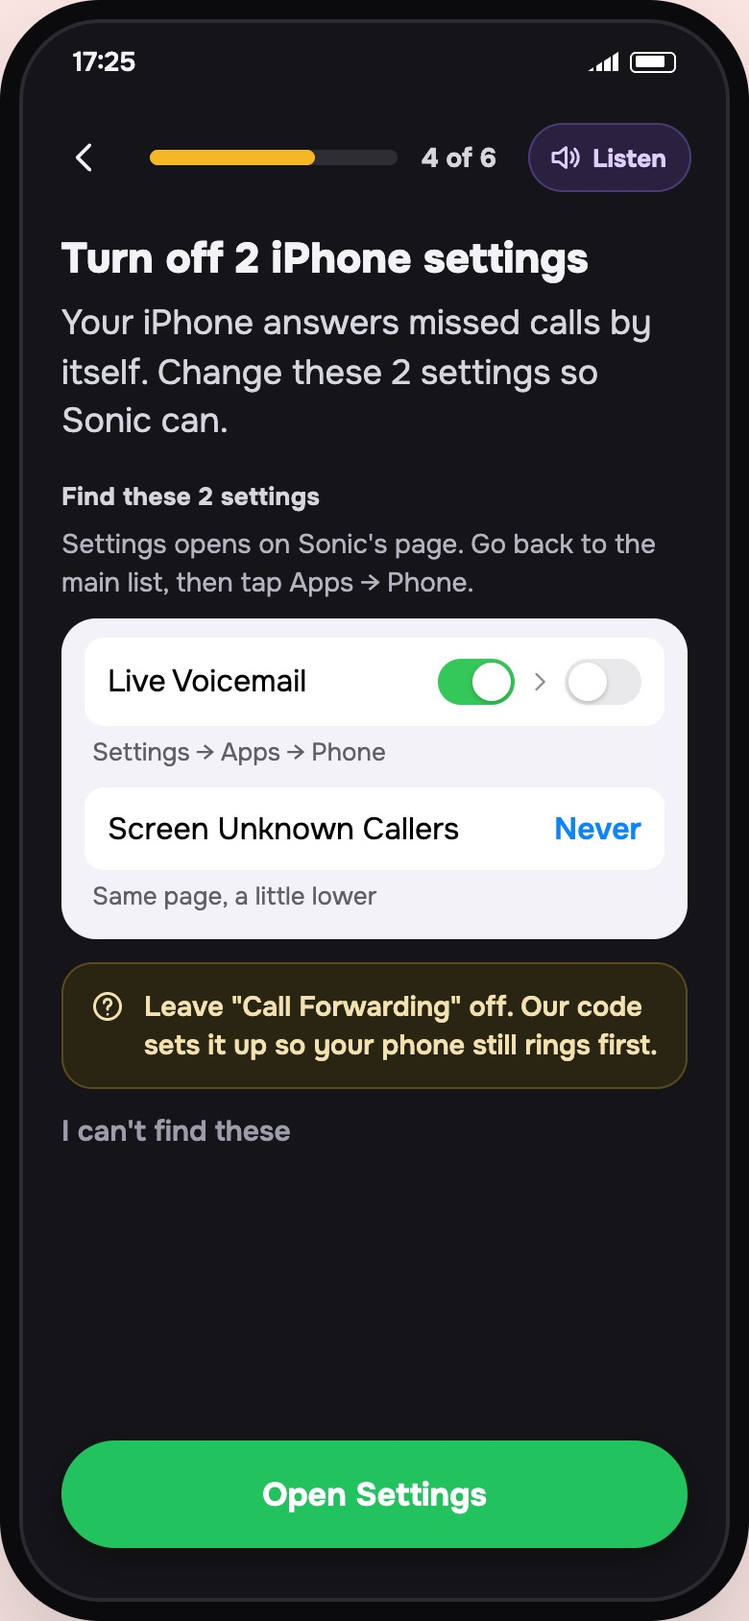
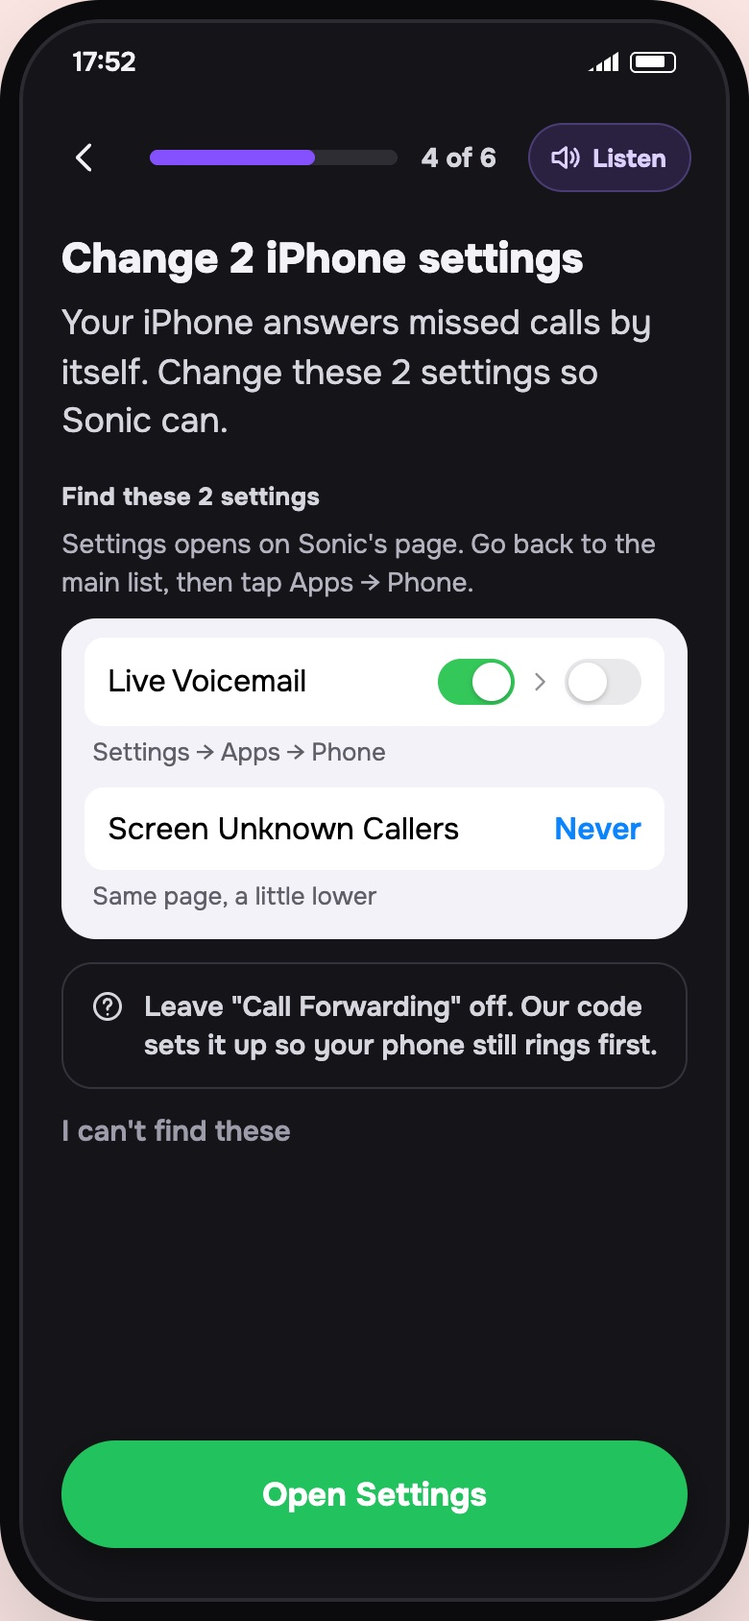
Part A v4: one object per screen, colour discipline, test-call hero
- Welcome merges What Sonic does: three one-line rows, 'rings first' line, video in a sheet
- Green only for the main button; purple for Sonic; neutral outlined callouts; no yellow
- Forwarding: code first and large, no animation, undo as one grey line
- Test call: big red button as the hero; slide-to-answer note on iPhone only
- Permissions: 'Allow all' chains the system dialogs; Android notifications required
- Choose: how 'only unknown numbers' treats saved contacts; first-family-call check
- Sonic is on: honest delivery status, first-week 'Was this ok?' example

diff --git a/site/onboarding/copy.js b/site/onboarding/copy.js
@@ -11,7 +11,7 @@ en: {
   w_title:'Missed a call?<br><span class="mark">Sonic picked it up.</span>',
   w_lede:'Your AI assistant for the calls you can\'t take.',
   w_play:'Watch how it works', w_len:'30 sec, with sound',
-  w_cta:'Get started', w_how:'Later',
+  w_cta:'Set up Sonic · about 3 min', w_how:'Later', w_rows:[['scooter','Delivery','Guides the rider to your gate with your instructions.'],['ban','Spam','Says no politely and hangs up. Shares nothing.'],['bell','Family','Takes the message. Urgent ones alert you right away.']], w_watch:'Watch how it works · 30 sec',
   w_trust:'Sonic always says it\'s your assistant. Never pretends to be you.',
   // what it does
   d_title:'Three kinds of calls, handled', d_rings:'Your phone rings first, every time. Sonic only answers calls you miss.', d_cta:'Set up Sonic · about 3 min',
@@ -31,28 +31,28 @@ en: {
   c_title:'Which calls should Sonic answer?',
   c_lede:'Your phone always rings first. Sonic only answers the calls you miss.',
   c2_h:'All calls I miss', c2_p:'Family, riders and strangers. Nobody is left unanswered.', c2_hear:'Family hear: "This is Sonic, Ananya\'s assistant."',
-  c1_h:'Only unknown numbers', c1_p:'Saved contacts just get a missed call, like today.',
+  c1_h:'Only unknown numbers', c1_p:'Strangers, spam and riders only.', c1_saved:'Saved contacts: Sonic hangs up quietly. They see a missed call, like today.',
   c_rec:'Recommended',
   c_f1:['Call','Rings on your phone','Missed','Sonic answers'],
-  c_change:'You can change this anytime.',
+  c_change:'After your first family call, Sonic will ask if you want to keep this.',
   // permissions
-  r_title:'Allow what Sonic needs',
+  r_title:'Let Sonic see your contacts', r_all:'Allow all', r_all_n:'Allow both',
   r_lede:'Your phone will show a box. Tap Allow.',
   r_contacts:'Contacts', r_contacts_w:'To greet family by name and spot strangers.', r_contacts_w2:'So Sonic knows your saved contacts and never answers them.',
-  r_notif:'Notifications', r_notif_w:'To guide you while you\'re in your phone\'s settings, and for urgent alerts.',
+  r_notif:'Notifications', r_notif_w:'To guide you in the Phone app, and for urgent alerts.',
   r_phone:'Phone', r_phone_w:'So Sonic knows which SIM gets your calls.',
   r_need:'Allow Contacts first', r_need_and:'Allow Contacts and Phone first', r_opt:'optional', r_settings:'Open Settings', r_settings_t:'Opens Settings → Apps → Sonic → Permissions',
   r_never:'Sonic never reads your SMS or OTPs. It never hears calls you pick up.',
   // voicemail
-  v_title:'Turn off 2 iPhone settings',
+  v_title:'Change 2 iPhone settings',
   v_lede:'Your iPhone answers missed calls by itself. Change these 2 settings so Sonic can.',
   v_s1:'Live Voicemail', v_s1p:'Settings → Apps → Phone',
   v_s2:'Screen Unknown Callers', v_s2p:'Same page, a little lower',
-  v_open:'Open Settings', v_back:'Done, both are off', v_again:'Show me again', v_cant:'I can\'t find these',
+  v_open:'Open Settings', v_back:'Done, both changed', v_again:'Show me again', v_cant:'I can\'t find these',
   v_cant_a:'No "Apps" in Settings? Your iPhone has iOS 17: open Settings → Phone instead. If one of the two settings isn\'t there, skip it. The test call at the end will check.', v_how:'Settings opens on Sonic\'s page. Go back to the main list, then tap Apps → Phone.', v_trap:'Leave "Call Forwarding" off. Our code sets it up so your phone still rings first.',
   // forwarding
   f_title:'Send missed calls to Sonic',
-  f_lede:'Dial this code once. That\'s all.', f_then_i:['Open Phone, tap Keypad.','Hold above the numbers, tap Paste.','Press call. See "activated"? Come back.'], f_then_a:['Press the green call button.','See "activated"? Come back here.'], f_type:'Or type it yourself',
+  f_lede:'Dial this code once. That\'s all.', f_then_i:['Open Phone, tap Keypad.','Touch and hold the empty box above the keys, tap Paste.','Press call. See "activated" or "successful"? Come back here.'], f_then_a:['Press the green call button.','See "activated" or "successful"? Come back here.'], f_tells:'This tells your network: if I don\'t pick up, send the call to Sonic.', f_undo_line:'Undo anytime: dial ##004#. If Sonic can\'t answer, the call just rings, like today.', f_type:'Or type it yourself',
   f_anim:['Someone calls','Your phone rings','You miss it','Sonic answers'],
   f_sim:'Use the SIM for', f_sim_ask:'If your phone asks which SIM, pick this one.', f_sim_change:'Not this number?',
   f_1:'Copy the code', f_1a:'Tap "Open dialer"', f_inside:'The purple part is your Sonic number.',
@@ -71,16 +71,16 @@ en: {
   x_cta:'Call me now', x_ring:'Calling...',
   x_dec:'Decline', x_acc:'Accept', x_test:'Sonic test call',
   x_pick:'You picked up. No problem. Try once more, and decline this time.',
-  x_ok_h:'It works', x_ok_p:'Sonic just answered your test call. This is what it said:', x_f1:'Your phone still rings first, every time.', x_f2:'Turn it off anytime: dial ##004#.',
+  x_ok_h:'It works', x_ok_p:'Sonic just answered your test call. This is what your callers will hear:', x_f3:'Sonic will send you a summary after every call it takes.', x_f1:'Your phone still rings first, every time.', x_f2:'Turn it off anytime: dial ##004#.',
   x_line:'Hello, this is Sonic, Ananya\'s assistant. Ananya can\'t take the call right now. May I know who\'s calling?',
   x_finish:'Finish', x_noring:'It didn\'t ring', x_noring_h:'Usually one of these', x_noring_l:['Check we called the right number. Tap Change on the test screen.','The code didn\'t register. Dial it again.','iPhone: Live Voicemail or Screen Unknown Callers is still on.'], x_redo:'Fix it',
   // live
-  l_title:'Sonic is on', l_lede:'Examples of what Sonic will send you after a call.', l_ex:'Example',
+  l_title:'Sonic is on', l_lede:'Examples of what Sonic will send you after a call.', l_deliv:'Deliveries: Sonic will guide riders once you add your home and office.', l_tt:'Amma called · 2 min', l_tb:'Sonic took a message. Was this ok?', l_keep:'Keep', l_switch:'Switch to unknown only', l_foot:'Pause Sonic anytime from Home. Turn it off anytime: dial ##004#.', l_ex:'Example',
   l_n1t:'Urgent · Amma', l_n1b:'Amma called. She says it\'s urgent. Call her back.',
   l_n2t:'Delivery · Swiggy', l_n2b:'Rider sent to Gate 2, flat B-1203. 8:47 pm.',
   l_n3t:'Spam ended', l_n3b:'Loan offer. Nothing shared.',
   l_next_h:'One more thing for deliveries', l_next_p:'Add your home and office, and who can collect. 1 minute.', l_mode_u:'Answers: only unknown numbers', l_mode_a:'Answers: all calls you miss', l_mode_c:'Change anytime',
-  l_next:'Add delivery details', l_pause:'Pause Sonic anytime from Home.',
+  l_next:'Add delivery details · 1 min', l_pause:'Pause Sonic anytime from Home.',
   // dialogs
   sys_screen_t:'Set Sonic as your default caller ID & spam app?', sys_screen_p:'Sonic will be able to see info about your calls.', set_default:'Set as default', cancel:'Cancel',
   sys_contacts_t:'Allow Sonic to access your contacts?', allow:'Allow', dont:'Don\'t allow',
@@ -91,7 +91,7 @@ en: {
   carrier_ok_t:'Call forwarding', carrier_ok_p:'Registration was successful. Service: Voice. Call forwarding when unreachable, busy or no reply: activated.',
   hint_settings:'You\'re in iPhone Settings. Change both, then tap "Sonic" at the top left.',
   hint_dialer:'You\'re in the Phone app. Paste the code and press call.',
-  la_title:'Sonic setup', la_pill:'Sonic · 3 steps', f_nonotif:'Notifications are off, so no helper will appear in the Phone app. Remember: press call, wait for "activated", come back.', la_ios_dial:['Touch and hold the top, tap Paste','Press the green call button','Wait for "activated", then come back'], la_and_dial:'Press the green call button. When you see "activated", tap here to come back.', la_back:'Back to Sonic',
+  la_title:'Sonic setup', la_pill:'Sonic · 3 steps', f_nonotif:'No helper will appear in the Phone app, so remember: press call, wait for "activated", come back.', la_ios_dial:['Touch and hold the top, tap Paste','Press the green call button','Wait for "activated", then come back'], la_and_dial:'Press the green call button. When you see "activated", tap here to come back.', la_back:'Back to Sonic',
   you_title:'What should Sonic call you?', you_lede:'Sonic says this to every caller:', you_name:'Your first name', you_num:'Your mobile number', you_num_ios:'iPhone doesn\'t let apps read your number, so please type it.', you_num_and:'From SIM 1', you_need:'Type your name first',
   toast_copied:'Code copied',
   step_of:'{a} of {b}', listen:'Listen', stop:'Stop',
@@ -108,10 +108,10 @@ window.NOTES = {
   welcome:{h:'Who I designed for',b:['Two people: a busy professional in Bengaluru, and that person\'s parent in a smaller town who uses a phone for WhatsApp and calls, and little else. If the parent can finish setup alone, everyone can.','So every screen follows five rules: one job and one green button per screen; plain words, no "permissions", "USSD" or "MMI"; show what they will see before they leave the app; a Listen button that reads the steps aloud on every hard step; and say how to undo before asking for anything.','The welcome line is the moment Sonic is for: a call you missed, already handled.'],w:'"Is this some app that will mess with my calls?"'},
   what:{h:'Show real calls, not features',b:['One tab per call type, each a two-line call. People understand an assistant faster from what it says than from a feature list.','The worries are tap-to-open, so the screen stays short for people who don\'t need them. Three worries only: missing calls, cost, and turning it off. The cost answer is my assumption about Indian unlimited plans; I would verify it with the telecom partner before launch.'],w:'"Will I still get my calls?" is answered here, before any setup.'},
   you:{h:'Ask only what Sonic says out loud',b:['Sonic introduces itself as "your name\'s assistant", so the name is the one thing it must ask. It shows the exact line callers will hear, right as you type.','Android reads the number from the SIM (Phone permission). iPhone cannot, so it asks; a real build would verify it with an OTP.','Nothing else is asked during setup. Home and office addresses come after Sonic is live.'],w:'"Why does it need my name?" Because callers hear it.'},
-  choose:{h:'Default: all calls I miss',b:['Family calls are one of Sonic\'s three jobs. If the default skipped saved contacts, most people would never see that job work, so I recommend "All calls I miss".','The first line answers the biggest fear: your phone always rings first.','Each option has an icon and one line, so someone who doesn\'t read every word can still choose.'],w:'"If Amma calls and I miss it, does a bot talk to her?" Only if you choose so, and it tells her it\'s your assistant.'},
+  choose:{h:'Default: all calls I miss',b:['Family calls are one of Sonic\'s three jobs. If the default skipped saved contacts, most people would never see that job work, so I recommend "All calls I miss".','The first line answers the biggest fear: your phone always rings first.','Each option has an icon and one line, so someone who doesn\'t read every word can still choose.','How "only unknown numbers" works with carrier forwarding: the missed call still reaches Sonic\'s number, Sonic sees it is a saved contact and hangs up quietly, so the caller gets a missed call, like today.','After the first family call, Sonic asks once whether to keep this mode, so the default is checked against real use.'],w:'"If Amma calls and I miss it, does a bot talk to her?" Only if you choose so, and it tells her it\'s your assistant.'},
   perms:{h:'Prepare them for the popup',b:['Non-tech users often deny system popups out of fear. So the first line says it plainly: "Your phone will show a box. Tap Allow."','One line of why for each, in their terms ("to greet family by name"), not ours.','Notifications are optional, but asked here on purpose: on Android they carry the setup guide while the user is in the Phone app.','If someone taps "Don\'t allow", they get a calm sheet with Try again, not a dead end.'],w:'"Will it read my OTPs?" The promise card answers it before they ask.'},
   voicemail:{h:'Show the switch before they go looking for it',b:['iPhone\'s Live Voicemail and Screen Unknown Callers answer missed calls before forwarding can, so Sonic never gets them.','The screen shows the two settings as they look in Settings, and warns against the switch people flip by mistake: Call Forwarding.','iOS only deep-links to Sonic\'s own settings page, so the screen says how to get from there to Phone. While they are in Settings, the steps sit in the Dynamic Island; the app only confirms when they come back.','The app can\'t read these settings, so the test call at the end is the real check. "I can\'t find these" is an exit, not a dead end.'],w:'"Where is this setting? I\'ll break something."'},
-  forward:{h:'Call forwarding, shown before it is asked for',b:['The animation explains the whole idea in four beats: someone calls, your phone rings, you miss it, Sonic answers.','Outside the app, Sonic cannot draw on the Phone app or Settings, and cannot see what the user does there. So the steps travel as a Live Activity in the Dynamic Island on iPhone (Lock Screen only on older iPhones), and as an ongoing notification on Android: a heads-up for a few seconds, then in the shade. Both are static lists; nothing ticks until the user is back in Sonic.','On Android, a later version could run the code itself with the Phone permission (TelephonyManager USSD), and fall back to the dialer when a network blocks it.','One green button copies the code and opens the Phone app. In the dialer, a pulsing hint points at the next tap: Paste, then the green button.','"What you\'ll see" previews the three things that happen outside the app, so nothing feels like an error. "Need help?" offers the steps as audio, a WhatsApp chat, or fixes if it failed.','The brief says "copy the Sonic number and dial it". Dialling the bare number would only call Sonic, so the user copies a code with the number inside it, in purple, and the screen says so.','Sonic cannot choose the SIM for the dialer, so the SIM line is an instruction, not a setting.'],w:'"Is this code safe? I\'ve heard of forwarding scams." Undo is shown before they dial.'},
+  forward:{h:'Call forwarding, shown before it is asked for',b:['The animation explains the whole idea in four beats: someone calls, your phone rings, you miss it, Sonic answers.','Outside the app, Sonic cannot draw on the Phone app or Settings, and cannot see what the user does there. So the steps travel as a Live Activity in the Dynamic Island on iPhone (Lock Screen only on iPhones without a Dynamic Island), and as an ongoing notification on Android: a heads-up for a few seconds, then in the shade. Both are static lists; nothing ticks until the user is back in Sonic.','On Android, a later version could run the code itself with the Phone permission (TelephonyManager USSD), and fall back to the dialer when a network blocks it.','One green button copies the code and opens the Phone app. In the dialer, a pulsing hint points at the next tap: Paste, then the green button.','"What you\'ll see" previews the three things that happen outside the app, so nothing feels like an error. "Need help?" offers the steps as audio, a WhatsApp chat, or fixes if it failed.','The brief says "copy the Sonic number and dial it". Dialling the bare number would only call Sonic, so the user copies a code with the number inside it, in purple, and the screen says so.','Sonic cannot choose the SIM for the dialer, so the SIM line is an instruction, not a setting.'],w:'"Is this code safe? I\'ve heard of forwarding scams." Undo is shown before they dial.'},
   test:{h:'Prove it on their own phone',b:['The test is the real situation: Sonic calls, you press the red button, Sonic picks up.','The instruction names the colour of the button, not the word "decline". Colour is easier than vocabulary.','Accepting by mistake is fine: "try once more". Success shows the exact line the caller heard.'],w:'"How do I know it actually works?"'},
   live:{h:'Show the payoff',b:['Three sample notifications, one per call type, so they know what to expect tomorrow.','Delivery details are the next step, not part of setup, so setup stays at about 3 minutes.'],w:'"Can I turn it off?" Pause from Home, or dial ##004#.'}
 };

diff --git a/site/onboarding/app.js b/site/onboarding/app.js
@@ -9,7 +9,7 @@ const S = {
   perms: { contacts: false, notif: false, phone: false },
   ios: { lv: true, suc: true, visited: false }, name: 'Ananya', num: '98765 04120', fwdCopied: false, inDialer: false, testTries: 0, tab: 'del', worry: null,
 };
-const REQUIRED = () => S.os === 'ios' ? ['contacts'] : ['contacts', 'phone'];
+const REQUIRED = () => S.os === 'ios' ? ['contacts'] : ['contacts', 'phone', 'notif'];
 
 // Line icons (24px, stroke) instead of emoji, to match Onest and the illustrations.
 const IP = {
@@ -43,15 +43,15 @@ const NM = v => typeof v === 'string' ? v.replaceAll('Ananya', S.name || 'Ananya
 const T = k => NM(COPY[S.lang][k] ?? COPY.en[k] ?? k);
 
 const FLOW = () => S.os === 'ios'
-  ? ['welcome', 'what', 'you', 'choose', 'perms', 'voicemail', 'forward', 'test', 'live']
-  : ['welcome', 'what', 'you', 'choose', 'perms', 'forward', 'test', 'live'];
+  ? ['welcome', 'you', 'choose', 'perms', 'voicemail', 'forward', 'test', 'live']
+  : ['welcome', 'you', 'choose', 'perms', 'forward', 'test', 'live'];
 const LABELS = { welcome: 'Welcome + explainer', what: 'What Sonic handles', you: 'Your name', choose: 'Choose which calls', perms: 'Permissions', voicemail: 'Turn off iPhone voicemail', forward: 'Call forwarding code', test: 'Test call', live: 'Sonic is live' };
 
 // ---------- helpers ----------
 function toast(msg) { toastEl.textContent = msg; toastEl.classList.add('on'); clearTimeout(toast.t); toast.t = setTimeout(() => toastEl.classList.remove('on'), 1600); }
 function openSheet(html) { sheet.innerHTML = '<div class="grab"></div>' + html; sheet.classList.add('on'); backdrop.classList.add('on'); }
 function closeSheet() { sheet.classList.remove('on'); backdrop.classList.remove('on'); }
-backdrop.onclick = closeSheet;
+backdrop.onclick = () => { stopVideo(); closeSheet(); };
 function go(step) { S.step = step; stopVideo(); stopAudio(); render(); }
 function nextStep() { const f = FLOW(); go(f[Math.min(f.indexOf(S.step) + 1, f.length - 1)]); }
 function prevStep() { const f = FLOW(); go(f[Math.max(f.indexOf(S.step) - 1, 0)]); }
@@ -83,17 +83,18 @@ function fwdClip() { return S.os === 'ios' ? 'forward_ios' : 'forward_and'; }
 const screens = {};
 
 screens.welcome = () => `
-  <div class="body" style="padding-top:18px">
+  <div class="body" style="padding-top:24px">
     <h1>${T('w_title')}</h1>
     <p class="lede">${T('w_lede')}</p>
-    ${videoBlock()}
-    <p class="vlen">${T('w_play')} · ${T('w_len')}</p>
+    <div class="wrows">${T('w_rows').map(([i, h, p]) => `<div class="wrow"><div class="ico n">${ic(i)}</div><div><b>${h}</b><p>${p}</p></div></div>`).join('')}</div>
+    <p class="rings">${T('d_rings')}</p>
     <div class="row" style="align-items:center;gap:10px;margin-top:14px">
-      <div class="ico p" style="width:34px;height:34px;border-radius:12px">${ic('shield', 18)}</div>
+      <div class="ico n" style="width:34px;height:34px;border-radius:12px">${ic('shield', 18)}</div>
       <p class="small" style="margin:0">${T('w_trust')}</p>
     </div>
   </div>
   <div class="footer">
+    <button class="link watch" data-act="watch">${ic('speaker', 18)} ${T('w_watch')}</button>
     <button class="cta" data-act="next">${T('w_cta')}</button>
     <button class="link" data-act="later">${T('w_how')}</button>
   </div>`;
@@ -131,7 +132,7 @@ screens.choose = () => {
   const opt = (k, h, p, badge, icon) => `
     <button class="opt ${S.choice === k ? 'sel' : ''}" data-choice="${k}">
       ${badge ? `<span class="badge">${T('c_rec')}</span>` : ''}
-      <div class="row"><div class="ico ${k === 'all' ? 'p' : 'n'}">${ic(icon)}</div><div><h3>${T(h)}</h3><p>${T(p)}</p>${k === 'all' ? `<p class="hear">${T('c2_hear')}</p>` : ''}</div></div><span class="radio"></span>
+      <div class="row"><div class="ico ${k === 'all' ? 'p' : 'n'}">${ic(icon)}</div><div><h3>${T(h)}</h3><p>${T(p)}</p>${k === 'all' ? `<p class="hear">${T('c2_hear')}</p>` : `<p class="hear muted">${T('c1_saved')}</p>`}</div></div><span class="radio"></span>
     </button>`;
   return `${appbar()}
   <div class="body">
@@ -156,13 +157,13 @@ screens.perms = () => {
       ${list.map(k => `
         <div class="lrow">
           <div class="ico ${ico[k][0]}">${ic(ico[k][1])}</div>
-          <div class="t"><b>${T('r_' + k)}${k === 'notif' ? ` <small style="font-weight:600;color:#9C9CAA">· ${T('r_opt')}</small>` : ''}</b><span>${T(k === 'contacts' && S.choice === 'unknown' ? 'r_contacts_w2' : 'r_' + k + '_w')}</span></div>
-          ${S.perms[k] ? `<span class="done-tick" aria-label="Allowed">${ic('check', 22)}</span>` : `<button class="pill-sm ${k === 'notif' ? 'ghostpill' : 'on'}" data-perm="${k}">${T('allow')}</button>`}
+          <div class="t"><b>${T('r_' + k)}${k === 'notif' && S.os === 'ios' ? ` <small style="font-weight:600;color:#9C9CAA">· ${T('r_opt')}</small>` : ''}</b><span>${T(k === 'contacts' && S.choice === 'unknown' ? 'r_contacts_w2' : 'r_' + k + '_w')}</span></div>
+          ${S.perms[k] ? `<span class="done-tick" aria-label="Allowed">${ic('check', 22)}</span>` : `<button class="pill-sm ghostpill" data-perm="${k}">${T('allow')}</button>`}
         </div>`).join('')}
     </div>
-    <div class="promise">${ic('lock', 18)}<span>${T('r_never')}</span></div>
+    <p class="capline">${ic('lock', 15)} ${T('r_never')}</p>
   </div>
-  <div class="footer">${all ? '' : `<p class="ctanote">${T(S.os === 'ios' ? 'r_need' : 'r_need_and')}</p>`}<button class="cta" data-act="next" ${all ? '' : 'disabled'}>${T('continue')}</button></div>`;
+  <div class="footer">${all ? `<button class="cta" data-act="next">${T('continue')}</button>` : `<button class="cta" data-act="allow-all">${T('r_all')}</button>`}</div>`;
 };
 
 screens.voicemail = () => `${appbar('voicemail')}
@@ -204,16 +205,14 @@ screens.forward = () => {
   return `${appbar(fwdClip())}
   <div class="body">
     <h2>${T('f_title')}</h2>
-    ${fwdAnim()}
-    <div class="codecard">
+    <div class="codecard big">
       <p class="lede" style="margin:0 0 10px">${T('f_lede')}</p>
       <div class="code"><span>${codeHtml()}</span></div>
-      <p class="small" style="margin:8px 0 0">${T('f_inside')}</p>
+      <p class="small" style="margin:10px 0 0">${T('f_tells')}</p>
+      ${ios ? '' : `<div class="simline">${ic('mobile', 15)} From SIM ${S.sim} · ${S.sim === 1 ? '98xxx x4120' : '70xxx x8812'} <button class="link" data-act="sim-toggle">${T('x_change')}</button></div>`}
     </div>
     <ol class="steps tight">${T(ios ? 'f_then_i' : 'f_then_a').map(t => `<li><p>${t}</p></li>`).join('')}</ol>
-    ${!ios && !S.perms.notif ? `<div class="trap">${ic('bell', 18)}<span>${T('f_nonotif')}</span></div>` : ''}
-    <div class="assure"><div>${ic('undo', 16)} ${T('f_undo')}</div><div>${ic('shield', 16)} ${T('f_down')}</div></div>
-    ${ios ? '' : `<div class="simrow">${ic('mobile', 16)} <span>${T('f_sim')} <b>${S.sim === 1 ? '98xxx x4120' : '70xxx x8812'}</b>. ${T('f_sim_ask')}</span><button class="link" data-act="sim-toggle">${T('f_sim_change')}</button></div>`}
+    <p class="capline">${ic(!ios && !S.perms.notif ? 'bell' : 'undo', 15)} ${T(!ios && !S.perms.notif ? 'f_nonotif' : 'f_undo_line')}</p>
   </div>
   <div class="footer"><button class="cta" data-act="open-dialer">${ios ? T('f_open_phone') : T('f_open_dialer')}</button><button class="link helpl" data-act="help">${ic('help', 18)} ${T('help')}</button></div>`;
 };
@@ -222,12 +221,10 @@ screens.test = () => `${appbar('test')}
   <div class="body">
     <h2>${T('x_title')}</h2>
     <p class="lede">${T('x_lede')}</p>
-    <div class="card testcard">
-      <div class="callrow"><span>We'll call <b>${S.os === 'ios' ? '+91 ' + S.num : (S.sim === 1 ? '98xxx x4120' : '70xxx x8812')}</b></span><button class="link" data-act="change-num">${T('x_change')}</button></div>
-      <p class="small" style="margin:6px 0 0">${T('x_hold')}</p>
-      <div class="pressred"><span class="redbtn">${ic('phone', 30)}</span><b>${T('x_press')}</b></div>
-      <p class="small" style="margin:12px 0 0">${T('x_slide')}</p>
-    </div>
+    <div class="callrow"><span>We'll call <b>${S.os === 'ios' ? '+91 ' + S.num : (S.sim === 1 ? '98xxx x4120' : '70xxx x8812')}</b></span><button class="link" data-act="change-num">${T('x_change')}</button></div>
+    <div class="hero-red"><span class="redbtn big">${ic('phone', 44)}</span><b>${T('x_press')}</b></div>
+    <p class="small center">${T('x_hold')}</p>
+    ${S.os === 'ios' ? `<p class="small center">${T('x_slide')}</p>` : ''}
     ${S.testTries > 0 ? `<div class="tip">${T('x_pick')}</div>` : ''}
   </div>
   <div class="footer"><button class="cta" data-act="call-me">${T('x_cta')}</button><button class="link" data-act="noring">${T('x_noring')}</button></div>`;
@@ -238,7 +235,7 @@ screens.test_ok = () => `
     <h2>${T('x_ok_h')}</h2>
     <p class="lede">${T('x_ok_p')}</p>
     <div class="bubbles"><div class="bub sonic" style="max-width:100%"><span class="who">Sonic</span>${T('x_line')}</div></div>
-    <div class="facts"><div>${ic('mobile', 18)} ${T('x_f1')}</div><div>${ic('undo', 18)} ${T('x_f2')}</div></div>
+    <div class="facts"><div>${ic('mobile', 18)} ${T('x_f1')}</div><div>${ic('undo', 18)} ${T('x_f2')}</div><div>${ic('bell', 18)} ${T('x_f3')}</div></div>
     
   </div>
   <div class="footer"><button class="cta" data-act="to-live">${T('x_finish')}</button></div>`;
@@ -248,16 +245,16 @@ screens.live = () => `
     <h1 class="livehead"><span class="livedot" aria-hidden="true"></span>${T('l_title')}</h1>
     <p class="lede">${T('l_lede')}</p>
     <div class="notif urg"><div class="dot">${ic('bell', 16)}</div><div><span class="ex">${T('l_ex')}</span><b>${T('l_n1t')}</b><p>${T('l_n1b')}</p></div></div>
-    <div class="notif"><div class="dot">${ic('scooter', 16)}</div><div><span class="ex">${T('l_ex')}</span><b>${T('l_n2t')}</b><p>${T('l_n2b')}</p></div></div>
     <div class="notif"><div class="dot" style="background:#3a3a42">${ic('ban', 16)}</div><div><span class="ex">${T('l_ex')}</span><b>${T('l_n3t')}</b><p>${T('l_n3b')}</p></div></div>
-    <p class="small" style="margin:10px 0 0"><b style="color:#fff">${S.choice === 'all' ? T('l_mode_a') : T('l_mode_u')}</b> · ${T('l_mode_c')}</p>
+    <div class="notif"><div class="dot" style="background:#3a3a42">${ic('users', 16)}</div><div><span class="ex">${T('l_ex')}</span><b>${T('l_tt')}</b><p>${T('l_tb')}</p><div class="tt"><button class="pill-sm ghostpill">${T('l_keep')}</button><button class="pill-sm ghostpill">${T('l_switch')}</button></div></div></div>
+    <p class="capline">${ic('scooter', 15)} ${T('l_deliv')}</p>
     <div class="nextcard">
       <h3 style="margin:0 0 4px;font-size:16px">${T('l_next_h')}</h3><p class="small" style="margin:0 0 12px;color:#C9C9D3">${T('l_next_p')}</p>
       <button class="cta2" data-act="deliv">${T('l_next')}</button>
     </div>
-    <p class="small">${T('l_pause')}</p>
+    <p class="small">${T('l_foot')}</p>
   </div>
-  <div class="footer"><button class="link" data-act="restart">${'Restart prototype'}</button></div>`;
+  <div class="footer"><button class="link" data-act="restart">Restart prototype</button></div>`;
 
 // ---------- explainer video (voiceover + illustrated scenes) ----------
 const SCENES = [
@@ -422,8 +419,8 @@ function sysDialog(k) {
   d.addEventListener('click', e => {
     const r = e.target.closest('[data-r]'); if (!r) return;
     d.remove();
-    if (r.dataset.r === 'yes') { S.perms[k] = true; render(); }
-    else openSheet(`<h3 style="margin:0 0 6px">${T('perm_need_h')}</h3><p class="small" style="font-size:14px">${T('r_' + k + '_w')}</p><p class="small">${T('perm_need_p')}</p><div class="footer" style="padding:10px 0 0"><button class="cta" data-perm="${k}">${T('try_again')}</button><button class="link" data-act="open-app-settings">${T('r_settings')}</button><button class="link" data-act="close-sheet">${T('not_now')}</button></div>`);
+    if (r.dataset.r === 'yes') { S.perms[k] = true; render(); const n = (S.queue || []).shift(); if (n) setTimeout(() => sysDialog(n), 250); }
+    else { S.queue = []; openSheet(`<h3 style="margin:0 0 6px">${T('perm_need_h')}</h3><p class="small" style="font-size:14px">${T('r_' + k + '_w')}</p><p class="small">${T('perm_need_p')}</p><div class="footer" style="padding:10px 0 0"><button class="cta" data-perm="${k}">${T('try_again')}</button><button class="link" data-act="open-app-settings">${T('r_settings')}</button><button class="link" data-act="close-sheet">${T('not_now')}</button></div>`); }
   });
 }
 
@@ -470,6 +467,9 @@ phone.addEventListener('click', e => {
     case 'play': return playVideo();
     case 'change-num': return go('you');
     case 'di-toggle': return t.classList.toggle('open');
+    case 'watch': openSheet(`${videoBlock()}<div class="footer" style="padding:6px 0 0"><button class="link" data-act="close-video">${T('gotit')}</button></div>`); return playVideo();
+    case 'close-video': stopVideo(); return closeSheet();
+    case 'allow-all': { S.queue = (S.os === 'ios' ? ['contacts', 'notif'] : ['contacts', 'phone', 'notif']).filter(k => !S.perms[k]); const k = S.queue.shift(); return k && sysDialog(k); }
     case 'listen': return toggleListen(t);
     case 'help': return openSheet(`<h3 style="margin:0 0 14px">${T('help_h')}</h3>
       <div class="helplist">

diff --git a/site/onboarding/style.css b/site/onboarding/style.css
@@ -515,3 +515,47 @@ h2{font-size:22px;line-height:1.2;margin:0 0 8px;font-weight:800}
 .callrow b{color:#fff}
 .callrow .link{font-size:14px;color:#C9B6FF;min-height:36px;padding:4px 6px}
 .outside:not(.and) .breadcrumb{left:14px}
+
+/* v4 colour system: green = primary button only, purple = Sonic, neutral everything else, no yellow */
+.progress i{background:var(--purple)}
+.badge{background:transparent;border:1px solid var(--purple);color:#DCD0FF}
+.livedot{background:var(--purple)}
+.ico.g,.ico.a,.ico.c{background:var(--surface2);color:#D6D6DE}
+.tip,.assure,.trap{background:transparent;border:1px solid var(--line);color:#D6D6DE}
+.tip b{color:#fff}
+.trap{font-weight:600}
+.done-tick{background:var(--surface2);color:#C9B6FF}
+.copy.done{background:var(--surface2);color:#C9B6FF}
+.nxi.ok{background:var(--surface2);color:#fff}
+.facts svg{color:#C9B6FF}
+.chip.on{border-color:#C9B6FF;color:#DCD0FF}
+.notif.urg .dot{background:#3a3a42}
+.carrier b.act{color:#fff}
+.cta2{border-color:#5b5b68;color:#E4E4EC}
+.pointer::after{background:#26262C;color:#fff}
+/* layout pieces */
+.wrows{display:flex;flex-direction:column;gap:14px;margin:4px 0 0}
+.wrow{display:flex;gap:12px;align-items:flex-start}
+.wrow .ico{width:40px;height:40px}
+.wrow b{font-size:16.5px}
+.wrow p{margin:2px 0 0;font-size:15px;color:#C8C8D2;line-height:1.4}
+.rings{margin:20px 0 0;font-size:16.5px;font-weight:700;line-height:1.4}
+.footer .watch{display:inline-flex;align-items:center;gap:8px;align-self:center;color:#DCD0FF;font-size:15px}
+.footer .watch svg{vertical-align:0!important}
+.sheet .video{margin:0 0 6px}
+.opt p.hear.muted{color:#B4B4C0}
+.capline{display:flex;gap:8px;align-items:flex-start;font-size:14px;line-height:1.4;color:#B4B4C0;margin:14px 0 0}
+.capline svg{flex:none;margin-top:2px;vertical-align:0!important}
+.codecard.big{padding:18px 16px;margin-top:6px}
+.codecard.big .code{font-size:20px;padding:14px}
+.simline{display:flex;align-items:center;gap:8px;margin-top:10px;font-size:14px;color:#D6D6DE}
+.simline .link{font-size:14px;color:#C9B6FF;min-height:32px;padding:2px 4px;margin-left:auto}
+.simline svg{vertical-align:0!important}
+.hero-red{display:flex;flex-direction:column;align-items:center;gap:12px;margin:28px 0 18px}
+.redbtn.big{width:112px;height:112px}
+.hero-red b{font-size:26px}
+.small.center{text-align:center;margin:6px 0 0}
+.callrow{margin-top:4px}
+.tt{display:flex;gap:8px;margin-top:8px}
+.tt .pill-sm{min-height:34px;padding:6px 12px;font-size:13px}
+.wrows{gap:10px}.wrow p{font-size:14.5px}.rings{margin-top:14px;font-size:16px}
